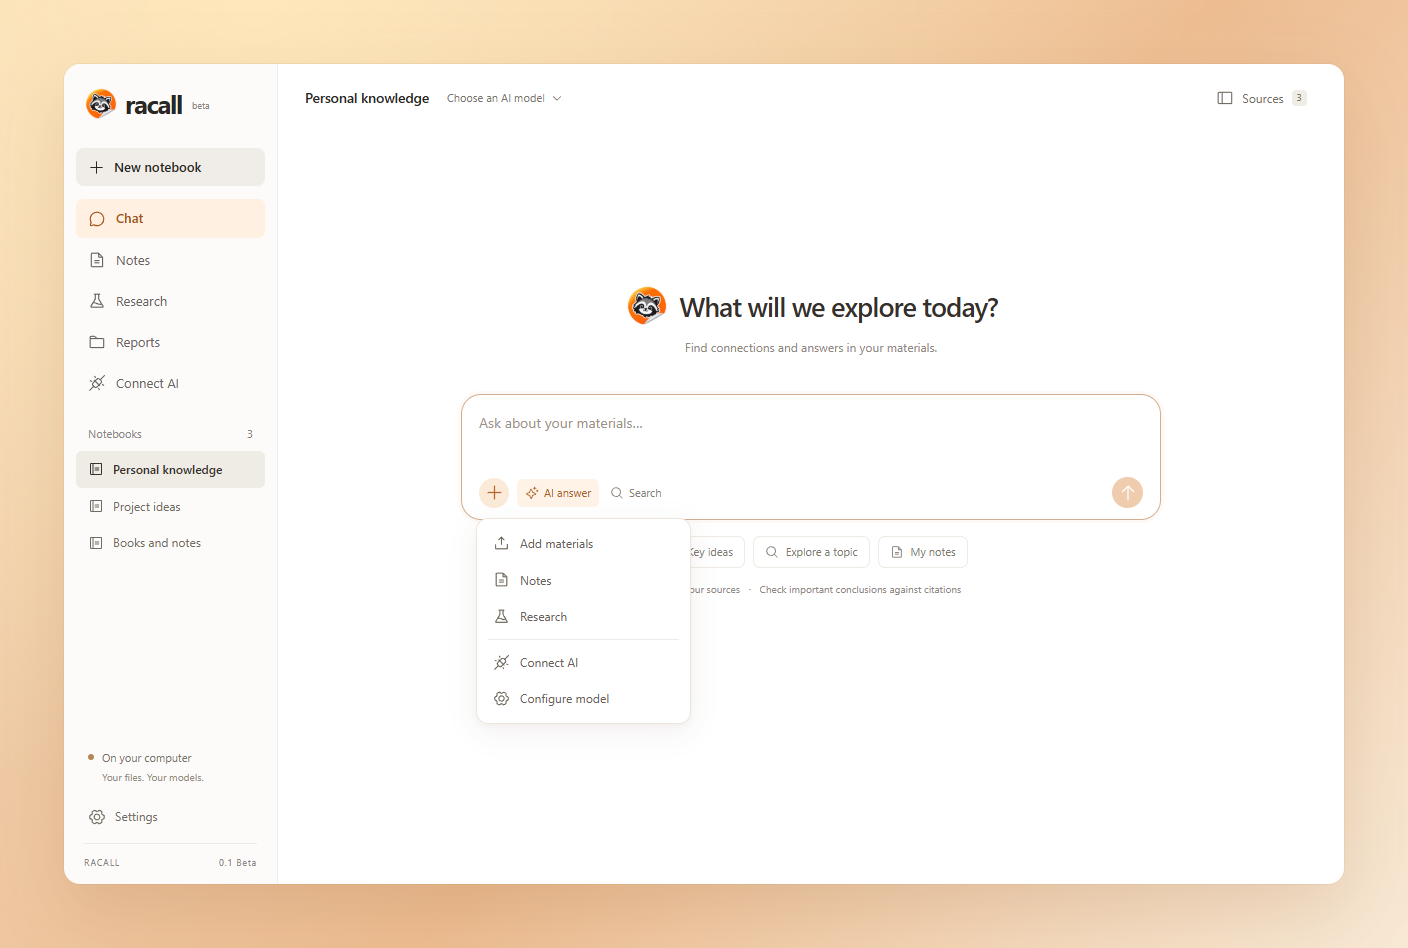
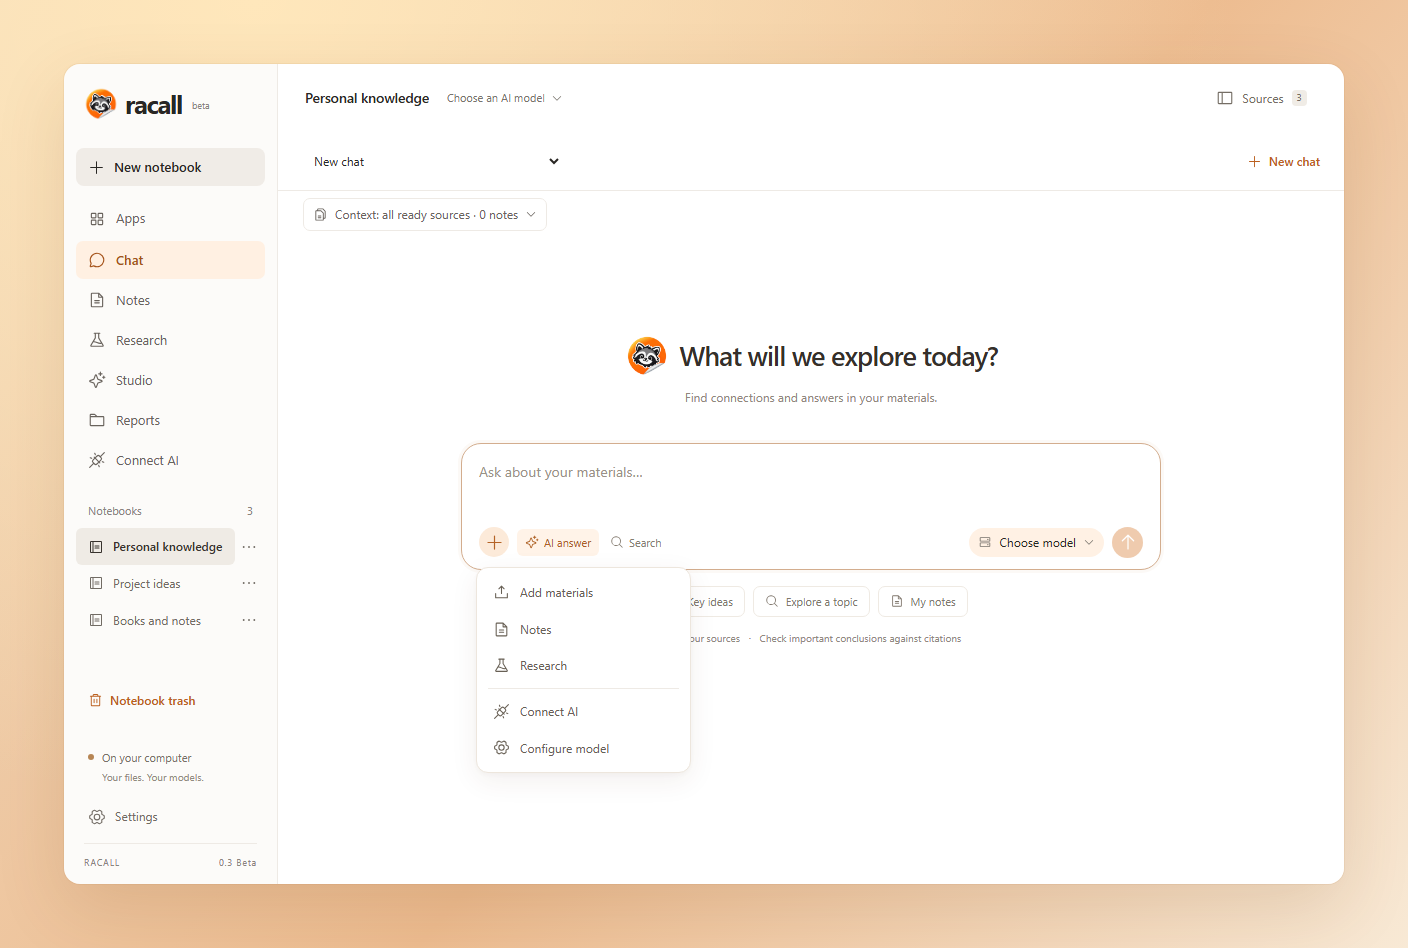
docs: refresh the project screenshot with the real 0.3 interface

diff --git a/docs/BRAND.md b/docs/BRAND.md
@@ -8,7 +8,7 @@
 - Смысл: raccoon (енот) + recall (вспоминать).
 - Маскот: енот на оранжевой наклейке с загнутым нижним правым краем.
 - Слоган: **Your notes. Your sources. Connected.**
-- GitHub About: **An open-source alternative to NotebookLM + Obsidian: AI research, cited answers, and connected Markdown notes.**
+- GitHub About: **An open-source desktop alternative to NotebookLM + Obsidian: cited answers, research, study materials, and connected Markdown notes.**
 
 ## Файлы
 
@@ -20,8 +20,8 @@
 
 ## Статус перехода
 
-README, интерфейс, заголовок окна, установщик и системные иконки используют Racall. Идентификатор установки, папка данных `OpenNotebook`, имена переменных окружения и namespace системного keyring сохранены для совместимости. Миграция и перемещение файлов не выполняются. Поддержка телефонов и планшетов остаётся планом, а не возможностью версии 0.1.
+README, интерфейс, заголовок окна, установщик и системные иконки используют Racall. Идентификатор установки, папка данных `OpenNotebook`, имена переменных окружения и namespace системного keyring сохранены для совместимости. Миграция и перемещение файлов не выполняются. Поддержка телефонов и планшетов остаётся планом, а не возможностью версии 0.3.
 
-`assets/brand/racall-desktop-preview.png` — снимок настоящего интерфейса с демонстрационными материалами и декоративной внешней подложкой. В приложении используется белый фон. Снимок воспроизводится командой `node scripts/capture-ui.cjs` после сборки frontend; сценарий использует изолированное хранилище в `test-results`, Python backend и headless Chromium. На Windows по умолчанию используется установленный Chrome; путь можно передать через `RACALL_BROWSER_PATH`.
+`assets/brand/racall-desktop-preview.png` — снимок настоящего интерфейса 0.3 с демонстрационными материалами и декоративной внешней подложкой. На снимке используется светлая тема; приложение также поддерживает тёмную и системную. Снимок воспроизводится командой `node scripts/capture-readme.cjs` после сборки frontend; сценарий использует изолированное хранилище в `test-results`, Python backend и headless Chromium с отключённым GPU. Модели и внешние сервисы не вызываются. На Windows по умолчанию используется установленный Chrome; путь можно передать через `RACALL_BROWSER_PATH`.
 
 Предварительный веб-поиск точного слова Racall 24 сентября 2026 года не выявил заметного одноимённого приложения заметок. На GitHub уже есть пользователь `racall`: https://github.com/racall. Это не проверка товарных знаков или доменов и не заявление о полной уникальности названия.
